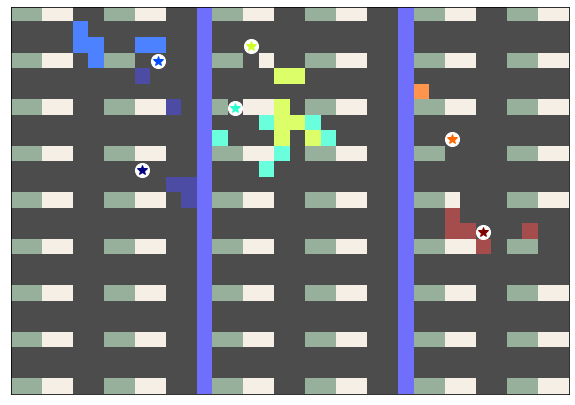
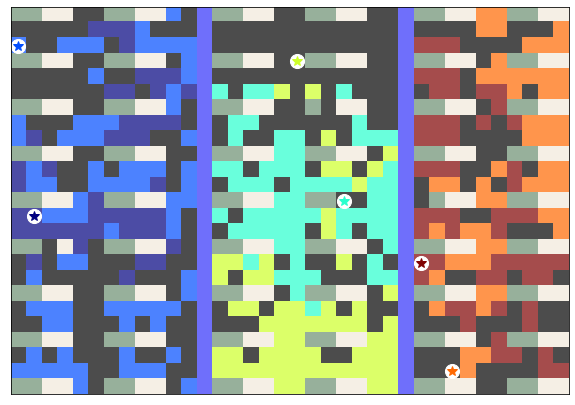
agents keep original index, but are ignored if by countries theyre not in

diff --git a/ai_economist/foundation/components/redistribution.py b/ai_economist/foundation/components/redistribution.py
@@ -7,7 +7,7 @@
 from copy import deepcopy
 
 import numpy as np
-
+import numpy.ma as ma
 from ai_economist.foundation.base.base_component import (
     BaseComponent,
     component_registry,
@@ -1275,27 +1275,7 @@ class PeriodicTaxBracketMultiOrchestrator(BaseComponent):
         On the first day of each tax period, update taxes. On the last day, enact them.
         """
         for worker in self.workers.values():
-            # 1. On the first day of a new tax period: Set up the taxes for this period.
-            if worker.tax_cycle_pos == 1:
-                if worker.tax_model == "model_wrapper":
-                    worker.set_new_period_rates_model()
-
-                if worker.tax_model == "saez":
-                    worker.compute_and_set_new_period_rates_from_saez_formula()
-
-                # (cache this for faster obs generation)
-                worker._curr_rates_obs = np.array(worker.curr_marginal_rates)
-
-            # 2. On the last day of the tax period: Get $-taxes AND update agent endowments.
-            if worker.tax_cycle_pos >= worker.period:
-                worker.enact_taxes()
-                worker.tax_cycle_pos = 0
-
-            else:
-                worker.taxes.append([])
-
-            # increment timestep.
-            worker.tax_cycle_pos += 1
+            worker.component_step()
 
     def generate_observations(self):
         """
@@ -1311,7 +1291,7 @@ class PeriodicTaxBracketMultiOrchestrator(BaseComponent):
         """
         obs = dict()
         
-        for country, worker in self.workers.items():
+        for _, worker in self.workers.items():
 
             obs.update(worker.generate_observations())
         return obs
@@ -1425,6 +1405,7 @@ class PeriodicTaxBracketMultiOrchestrator(BaseComponent):
 
         Reset trackers.
         """
+
         for worker in self.workers.values():
             worker.additional_reset_steps()
 
@@ -2257,40 +2238,51 @@ class PeriodicBracketTaxMultiWorker(BaseComponent):
         self.last_income = []
         self.last_effective_tax_rate = []
         self.last_marginal_rate = []
-        agents = [agent for agent in self.world.agents if agent.state['nation'] == self.country] 
-        for agent, last_coin in zip(agents, self.last_coin):
-            income = agent.total_endowment("Coin") - last_coin
-            tax_due = self.taxes_due(income)
-            effective_taxes = np.minimum(
-                agent.state["inventory"]["Coin"], tax_due
-            )  # Don't take from escrow.
-            marginal_rate = self.marginal_rate(income)
-            effective_tax_rate = float(effective_taxes / np.maximum(0.000001, income))
-            tax_dict[str(agent.idx%2)] = dict(
-                income=float(income),
-                tax_paid=float(effective_taxes),
-                marginal_rate=marginal_rate,
-                effective_rate=effective_tax_rate,
-            )
+        for agent, last_coin in zip(self.world.agents, self.last_coin):
+            if agent.state['nation'] == self.country:
 
-            # Actually collect the taxes.
-            agent.state["inventory"]["Coin"] -= effective_taxes
-            net_tax_revenue += effective_taxes
+                income = agent.total_endowment("Coin") - last_coin
+                tax_due = self.taxes_due(income)
+                effective_taxes = np.minimum(
+                    agent.state["inventory"]["Coin"], tax_due
+                )  # Don't take from escrow.
+                marginal_rate = self.marginal_rate(income)
+                effective_tax_rate = float(effective_taxes / np.maximum(0.000001, income))
+                tax_dict[str(agent.idx)] = dict(
+                    income=float(income),
+                    tax_paid=float(effective_taxes),
+                    marginal_rate=marginal_rate,
+                    effective_rate=effective_tax_rate,
+                )
 
-            self.last_income.append(float(income))
-            self.last_marginal_rate.append(float(marginal_rate))
-            self.last_effective_tax_rate.append(effective_tax_rate)
+                # Actually collect the taxes.
+                agent.state["inventory"]["Coin"] -= effective_taxes
+                net_tax_revenue += effective_taxes
 
-            self.all_effective_tax_rates.append(effective_tax_rate)
-            self._occupancy["{:03d}".format(int(self.income_bin(income)))] += 1
+                self.last_income.append(float(income))
+                self.last_marginal_rate.append(float(marginal_rate))
+                self.last_effective_tax_rate.append(effective_tax_rate)
+
+                self.all_effective_tax_rates.append(effective_tax_rate)
+                self._occupancy["{:03d}".format(int(self.income_bin(income)))] += 1
+            else:
+                #agent not currently in country do nothing
+                self.last_income.append(float(0))
+                self.last_marginal_rate.append(float(0))
+                self.last_effective_tax_rate.append(0)
 
         self.total_collected_taxes += float(net_tax_revenue)
 
-        lump_sum = net_tax_revenue / len(agents)
-        for agent in agents:
-            agent.state["inventory"]["Coin"] += lump_sum
-            tax_dict[str(agent.idx%2)]["lump_sum"] = float(lump_sum)
-            self.last_coin[agent.idx%2] = float(agent.total_endowment("Coin"))
+        lump_sum = net_tax_revenue / len([agent for agent in self.world.agents
+                                            if agent.state["nation"] == self.country])
+        for agent in self.world.agents:
+            if agent.state["nation"] == self.country:
+                agent.state["inventory"]["Coin"] += lump_sum
+                tax_dict[str(agent.idx)]["lump_sum"] = float(lump_sum)
+                self.last_coin[agent.idx] = float(agent.total_endowment("Coin"))
+            else:
+                #ignore agent not in country
+                pass
 
         self.taxes.append(tax_dict)
 
@@ -2377,7 +2369,6 @@ class PeriodicBracketTaxMultiWorker(BaseComponent):
         is_tax_day = float(self.tax_cycle_pos >= self.period)
         is_first_day = float(self.tax_cycle_pos == 1)
         tax_phase = self.tax_cycle_pos / self.period
-
         obs = dict()
 
         obs[f'p_{self.country}'] = dict(
@@ -2387,13 +2378,12 @@ class PeriodicBracketTaxMultiWorker(BaseComponent):
             last_incomes=self._last_income_obs_sorted,
             curr_rates=self._curr_rates_obs,
         )
-        agents = [agent for agent in self.world.agents if agent.state["nation"] == self.country]
-        for agent in agents:
+        for agent in self.world.agents:
             i = agent.idx
             k = str(i)
-            local_idx = i%2
+            #local_idx = i
             curr_marginal_rate = self.marginal_rate(
-                agent.total_endowment("Coin") - self.last_coin[local_idx]
+                agent.total_endowment("Coin") - self.last_coin[i]
             )
 
             obs[k] = dict(
@@ -2406,8 +2396,8 @@ class PeriodicBracketTaxMultiWorker(BaseComponent):
             )
 
             obs[f"p_{self.country}_a_{k}"] = dict(
-                last_income=self._last_income_obs[local_idx],
-                last_marginal_rate=self.last_marginal_rate[local_idx],
+                last_income=self._last_income_obs[i],
+                last_marginal_rate=self.last_marginal_rate[i],
                 curr_marginal_rate=curr_marginal_rate,
             )
 
@@ -2507,11 +2497,11 @@ class PeriodicBracketTaxMultiWorker(BaseComponent):
 
         self.tax_cycle_pos = 1
         self.last_coin = [
-            float(agent.total_endowment("Coin")) for agent in self.world.agents if agent.state["nation"] == self.country
+            float(agent.total_endowment("Coin")) for agent in self.world.agents
         ]
-        self.last_income = [0 for _ in range(self.world.number_of_agents_per_state)]
-        self.last_marginal_rate = [0 for _ in range(self.world.number_of_agents_per_state)]
-        self.last_effective_tax_rate = [0 for _ in range(self.world.number_of_agents_per_state)]
+        self.last_income = [0 for _ in range(self.world.n_agents)]
+        self.last_marginal_rate = [0 for _ in range(self.world.n_agents)]
+        self.last_effective_tax_rate = [0 for _ in range(self.world.n_agents)]
 
         self._curr_rates_obs = np.array(self.curr_marginal_rates)
         self._last_income_obs = np.array(self.last_income) / self.period
@@ -2553,9 +2543,13 @@ class PeriodicBracketTaxMultiWorker(BaseComponent):
             agent_coin_endows = np.array(
                 [agent.total_endowment("Coin") for agent in self.world.agents]
             )
-            idx_poor = np.argmin(agent_coin_endows)%2
-            idx_rich = np.argmax(agent_coin_endows)%2
+            country_specific_mask = np.array([int(agent.state["nation"] != self.country) 
+                        for agent in self.world.agents])
+            masked_agents = ma.masked_array(agent_coin_endows, country_specific_mask)
 
+            #only take into account residents
+            idx_poor = masked_agents.argmin()
+            idx_rich = masked_agents.argmax()
             tax_days = self.taxes[(self.period - 1) :: self.period]
             for i, tag in zip([idx_poor, idx_rich], ["poorest", "richest"]):
 

diff --git a/scratch/test.py b/scratch/test.py
@@ -1,4 +1,3 @@
-# %% 
 
 from ai_economist import foundation
 import numpy as np
@@ -118,15 +117,14 @@ def play_random_episode(env, plot_every=100, do_dense_logging=False):
     for t in range(env.episode_length):
         actions = sample_random_actions(env, obs)
         obs, rew, done, info = env.step(actions)
-
         if ((t+1) % plot_every) == 0:
             do_plot(env, ax, fig)
 
     if ((t+1) % plot_every) != 0:
         do_plot(env, ax, fig) 
-# %% 
+## %% 
 
 play_random_episode(env)  
 
 
-# %%
+

diff --git a/scratch/scratch.py b/scratch/scratch.py
@@ -1,0 +1,11 @@
+# %%
+import numpy as np
+import numpy.ma as ma
+a = np.array([979., 636., 291., 587., 487., 300.])
+mask = np.array([0,0,1,1,1,1])
+maskarr = ma.masked_array(a, mask)
+print(a)
+print(mask)
+print(maskarr)
+print(maskarr.argmax())
+# %%
